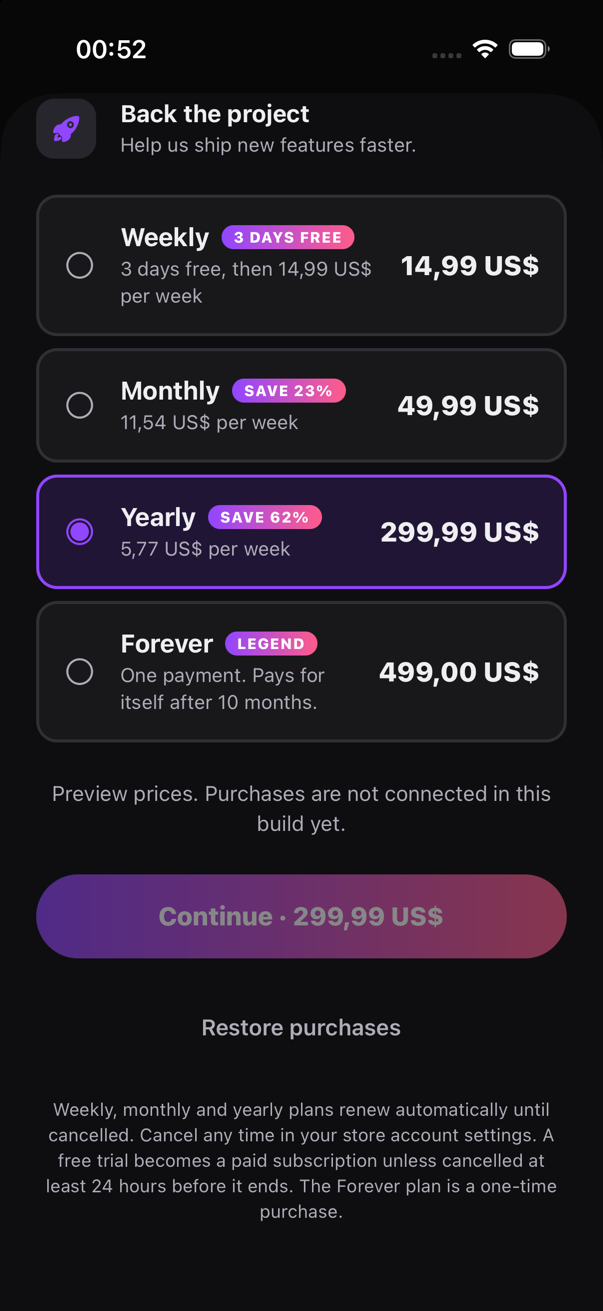
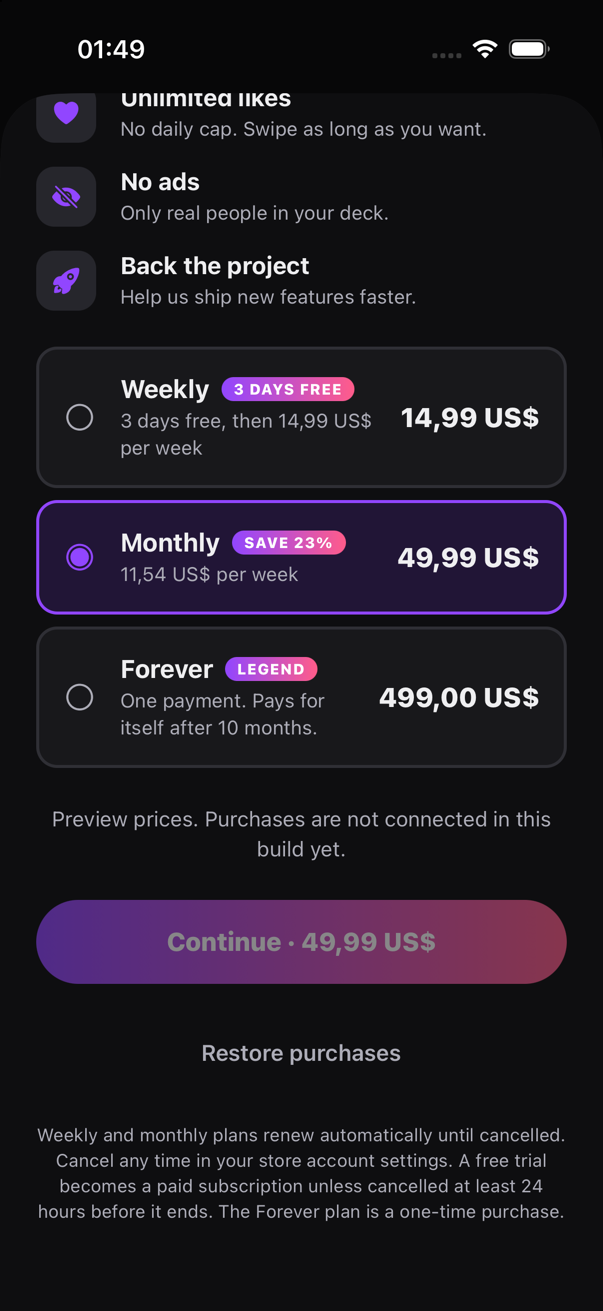
Paywall: drop the yearly plan, keep weekly, monthly and forever

diff --git a/src/app/paywall.tsx b/src/app/paywall.tsx
@@ -39,7 +39,6 @@ const PLAN_NAMES: Record<PlanKind, string> = {
 const PREVIEW: [PlanKind, number, number | null][] = [
   ['weekly', 14.99, 3],
   ['monthly', 49.99, null],
-  ['annual', 299.99, null],
   ['lifetime', 499, null],
 ];
 
@@ -119,7 +118,7 @@ export default function Paywall() {
   const refresh = useAction(api.billing.refresh);
   const [plans, setPlans] = useState<Plan[] | null>(purchasesAvailable ? null : PREVIEW_PLANS);
   const [selected, setSelected] = useState<string | null>(
-    purchasesAvailable ? null : 'preview_annual',
+    purchasesAvailable ? null : 'preview_monthly',
   );
   const [busy, setBusy] = useState<'buy' | 'restore' | null>(null);
   const [message, setMessage] = useState<string | null>(null);
@@ -133,7 +132,7 @@ export default function Paywall() {
         if (!active) return;
         const sorted = [...loaded].sort((a, b) => ORDER.indexOf(a.kind) - ORDER.indexOf(b.kind));
         setPlans(sorted);
-        setSelected((sorted.find((plan) => plan.kind === 'annual') ?? sorted[0])?.id ?? null);
+        setSelected((sorted.find((plan) => plan.kind === 'monthly') ?? sorted[0])?.id ?? null);
       });
     return () => {
       active = false;
@@ -295,8 +294,8 @@ export default function Paywall() {
               </Pressable>
 
               <Text style={styles.legal}>
-                Weekly, monthly and yearly plans renew automatically until cancelled. Cancel any time
-                in your store account settings. A free trial becomes a paid subscription unless cancelled
+                Weekly and monthly plans renew automatically until cancelled. Cancel any time in your
+                store account settings. A free trial becomes a paid subscription unless cancelled
                 at least 24 hours before it ends. The Forever plan is a one-time purchase.
               </Text>
             </>

diff --git a/site/src/pages/Home.tsx b/site/src/pages/Home.tsx
@@ -45,7 +45,7 @@ const PLANS = [
   {
     name: 'Premium',
     tagline: 'For people who swipe a lot',
-    perks: ['Unlimited likes', 'No ads', 'Everything in Free', 'Weekly with a free trial, monthly, yearly — or pay once and keep it forever'],
+    perks: ['Unlimited likes', 'No ads', 'Everything in Free', 'Weekly with a free trial, monthly — or pay once and keep it forever'],
     highlighted: true,
   },
 ]

diff --git a/docs/README.md b/docs/README.md
@@ -75,7 +75,7 @@ Zrzuty z natywnej aplikacji iOS (symulator iPhone 17), na danych testowych.
 
 - **Licznik polubień** w prawym górnym rogu Discover; dotknięcie otwiera ekran Premium.
 - **Reklama** zajmuje co trzecią kartę u kont darmowych. Przesuwa się ją jak profil.
-- **Ekran Premium** — cztery plany: tygodniowy (z 3 dniami za darmo), miesięczny, roczny i
+- **Ekran Premium** — trzy plany: tygodniowy (z 3 dniami za darmo), miesięczny i
   „Forever" (jednorazowy). Ceny na zrzucie to podgląd; prawdziwe zawsze pochodzą ze sklepu.
 - **Wyliczenia na planach** liczy aplikacja z cen ze sklepu: koszt tygodniowy każdego planu,
   „SAVE x%" względem najdroższego planu w przeliczeniu na tydzień oraz po ilu miesiącach zwraca
@@ -232,12 +232,12 @@ a funkcje czatu dodatkowo to, czy należy on do danego dopasowania (`requireMatc
 
 1. Załóż projekt na revenuecat.com i dodaj aplikacje iOS oraz Android
    (bundle id / package: `com.jakubjakubiak.streammatch`).
-2. W App Store Connect i Google Play Console utwórz cztery produkty: subskrypcje tygodniową
-   (z darmowym okresem próbnym 3 dni jako ofertą wprowadzającą), miesięczną i roczną oraz
-   jednorazowy zakup „lifetime". Tu ustawiasz ceny, np. 14,99 / 49,99 / 299,99 / 499 $.
-3. W RevenueCat: entitlement o identyfikatorze **`premium`**, przypięte do niego te cztery
-   produkty, oraz offering „default" z pakietami Weekly, Monthly, Annual i Lifetime. Aplikacja
-   rozpoznaje plany po typie pakietu.
+2. W App Store Connect i Google Play Console utwórz trzy produkty: subskrypcję tygodniową
+   (z darmowym okresem próbnym 3 dni jako ofertą wprowadzającą), subskrypcję miesięczną oraz
+   jednorazowy zakup „lifetime". Tu ustawiasz ceny, np. 14,99 / 49,99 / 499 $.
+3. W RevenueCat: entitlement o identyfikatorze **`premium`**, przypięte do niego te trzy
+   produkty, oraz offering „default" z pakietami Weekly, Monthly i Lifetime. Aplikacja
+   rozpoznaje plany po typie pakietu (gdybyś kiedyś dodał pakiet Annual, pokaże się sam).
 4. Klucze publiczne SDK wpisz do `.env.local` i przebuduj aplikację:
 
    ```
